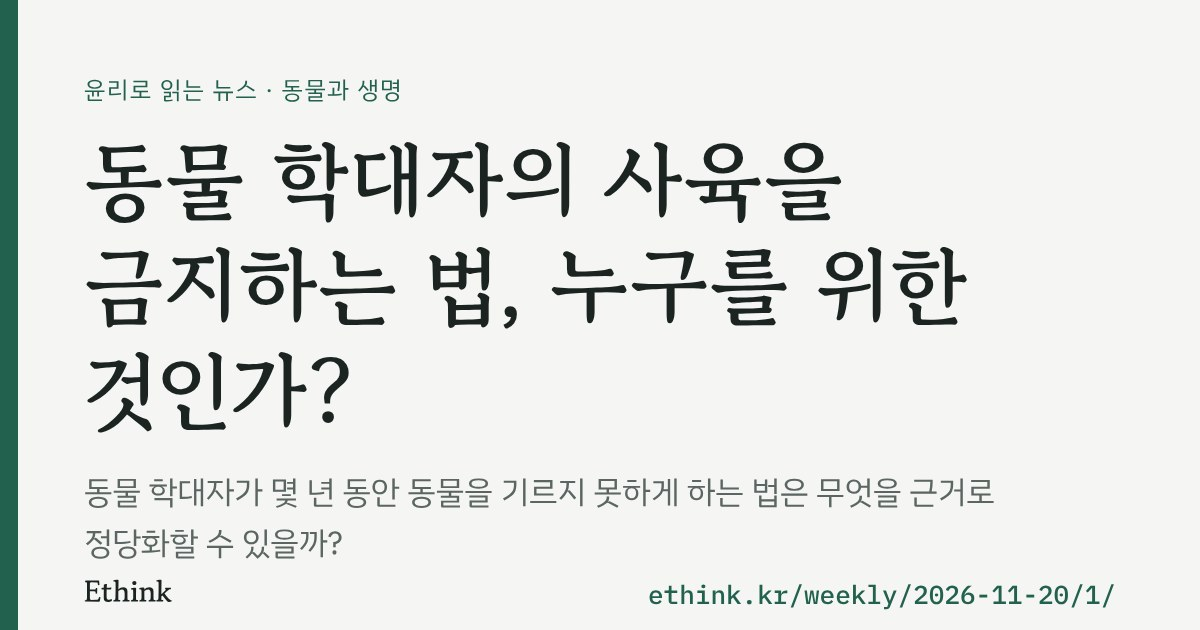
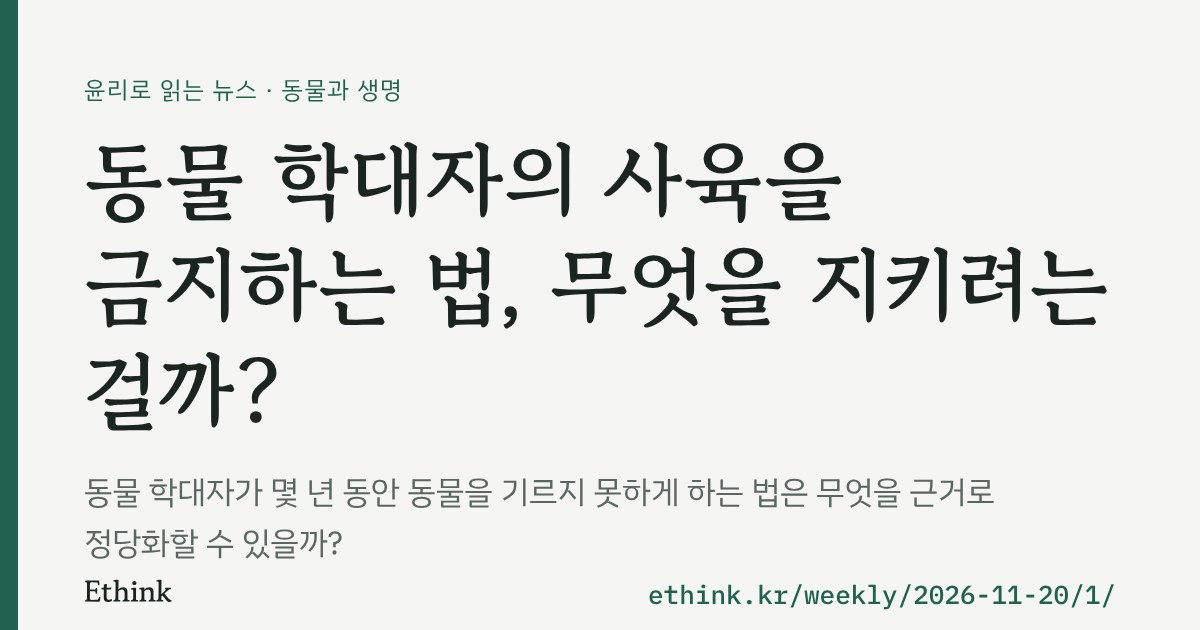
draft 11.20: GPT 2차 검토 반영(제목, 청구·선고·집행 구분, 계속 보호, 과태료 의무 표현, 칸트 반론, 법의 목적, 마무리 질문, 『윤리학 강의록』)
Claude-Session: https://claude.ai/code/session_01KzEbiP1novw54Lmu5VVEdP

Changed region(s): [[0.6783, 0.3921, 0.925, 0.5127], [0.0617, 0.5429, 0.3083, 0.6937], [0.4625, 0.3921, 0.6475, 0.5127]]

diff --git a/_items/2026-11-20/1.md b/_items/2026-11-20/1.md
@@ -3,9 +3,9 @@ date: 2026-11-20 09:00:00 +0900
 num: 1
 section: 동물과 생명
 kicker: 국내 · 10월 27일 공포, 동물보호법 개정(사육금지명령은 2027년 10월 시행)
-title: 동물 학대자의 사육을 금지하는 법, 누구를 위한 것인가?
+title: 동물 학대자의 사육을 금지하는 법, 무엇을 지키려는 걸까?
 question: 동물 학대자가 몇 년 동안 동물을 기르지 못하게 하는 법은 무엇을 근거로 정당화할 수 있을까? 동물의 고통일까, 사람의 도덕성일까, 동물의 권리일까?
-caution: 사육금지명령은 학대로 처벌받는 모든 사람에게 붙지 않습니다. 법이 '동물학대범죄'로 정한 죄로 기소되고 재범 위험이 인정될 때, 검사가 청구하고 법원이 판결로 정합니다. 이 글에서 다루는 조항은 2027년 10월 28일부터 시행되고, 세부 기준을 정할 시행규칙은 아직 나오지 않았습니다. 학대 사진이나 영상은 수업에서 보여 주지 않습니다. 반려동물을 잃었거나 기를 형편이 안 되는 학생도 있으니, 자기 반려동물 이야기를 하게 하지 않습니다. 벤담·칸트·레건의 생각을 이번 법에 대어 보는 것은 글쓴이의 해석입니다. 입법 과정에서 그런 판단을 했다는 뜻은 아닙니다.
+caution: 사육금지명령은 학대로 처벌받는 모든 사람에게 붙지 않습니다. 법이 '동물학대범죄'로 정한 죄로 기소되고 재범 위험이 인정될 때, 검사가 청구하고 법원이 판결로 정합니다. 이 글에서 다루는 조항은 2027년 10월 28일부터 시행되고, 세부 사항은 시행령과 시행규칙에서 정합니다. 학대 사진이나 영상은 수업에서 보여 주지 않습니다. 반려동물을 잃었거나 기를 형편이 안 되는 학생도 있으니, 자기 반려동물 이야기를 하게 하지 않습니다. 벤담·칸트·레건의 생각을 이번 법에 대어 보는 것은 글쓴이의 해석입니다. 입법 과정에서 그런 판단을 했다는 뜻은 아닙니다.
 subjects: [『윤리문제 탐구』 · 생태적 삶과 윤리적 탐구, 『현대사회와 윤리』 · 생명 윤리와 생태 윤리, 『통합사회1』 · 자연환경과 인간]
 lenses: [벤담 · 고통을 느낄 수 있는가, 칸트 · 동물에 대한 간접적 의무]
 sources:
@@ -23,9 +23,9 @@ og_image: /assets/og/2026-11-20-1.jpg
 ---
 ##### 무슨 일이 있었나
 
-동물보호법 개정안이 10월 1일 국회 본회의를 통과했고(229명 전원 찬성), 10월 27일 공포되었습니다. 중심은 '동물사육금지명령'입니다. 법이 '동물학대범죄'로 정한 죄로 기소된 사람 가운데 재범 위험이 인정되면, 검사가 청구하고 법원이 판결로 1년 이상 5년 이하 동안 동물을 기르거나 관리·보호하지 못하게 할 수 있습니다. 명령은 원칙적으로 판결이 확정된 날부터 집행됩니다(같은 범죄로 징역형을 살면 그 형을 마친 뒤부터). 금지 기간에는 보호관찰을 받습니다. 명령을 어기고 다시 동물을 기르면 1년 이하의 징역 또는 1천만 원 이하의 벌금에 처하고, 지방자치단체가 그 동물의 소유권을 가져올 수 있습니다. 이 조항들은 2027년 10월 28일부터 시행됩니다.
+동물보호법 개정안이 10월 1일 국회 본회의를 통과했고(229명 전원 찬성), 10월 27일 공포되었습니다. 중심은 '동물사육금지명령'입니다. 법이 '동물학대범죄'로 정한 죄로 기소된 사람에게 재범 위험이 있다고 보면, 검사는 법원에 사육금지명령을 청구할 수 있습니다. 법원은 학대 사건의 판결을 내리면서 명령을 함께 선고합니다. 명령을 받은 사람은 1년 이상 5년 이하 동안 동물을 기르거나 관리·보호하지 못합니다. 명령은 원칙적으로 판결이 확정된 날부터 집행됩니다(같은 범죄로 징역형을 살면 그 형을 마친 뒤부터). 금지 기간에는 보호관찰을 받습니다. 명령을 어기고 다시 동물을 기르면 1년 이하의 징역 또는 1천만 원 이하의 벌금에 처하고, 지방자치단체가 그 동물의 소유권을 가져올 수 있습니다. 이 조항들은 2027년 10월 28일부터 시행됩니다.
 
-함께 바뀐 것도 있습니다. 지방자치단체가 학대 피해로 보호하고 있는 동물의 소유자가 학대 혐의로 기소되면, 확정판결이 나올 때까지 그 동물을 돌려주지 않고 보호할 수 있습니다. 지방자치단체가 소유권을 가져온 동물을 학대 전력이 있는 사람에게 기증하거나 분양하는 것도 제한됩니다. 반려동물에게 최소한의 사육 공간과 먹이, 적정한 길이의 목줄 같은 사육·관리 의무를 지키지 않으면, 동물이 다치거나 병들지 않았어도 100만 원 이하의 과태료를 물릴 수 있습니다. 사육금지명령은 2022년 전부개정 때도 추진됐습니다. 그런데 재산권 침해, 무죄 추정 원칙에 어긋난다는 우려로 빠졌습니다. 이번에 그 우려를 반영해 보완한 안이 통과했습니다.
+함께 바뀐 것도 있습니다. 지방자치단체가 학대 피해로 보호하고 있는 동물의 소유자가 법에서 정한 학대 혐의로 기소되면, 판결이 확정될 때까지 그 동물을 계속 보호할 수 있습니다. 지방자치단체가 소유권을 가져온 동물을 학대 전력이 있는 사람에게 기증하거나 분양하는 것도 제한됩니다. 반려동물의 사육·관리·보호 의무(최소한의 사육 공간과 먹이, 적정한 길이의 목줄 등)를 어기면, 동물이 다치거나 병들지 않았어도 100만 원 이하의 과태료를 물릴 수 있습니다. 사육금지명령은 2022년 전부개정 때도 추진됐습니다. 그런데 재산권 침해, 무죄 추정 원칙에 어긋난다는 우려로 빠졌습니다. 이번에 그 우려를 반영해 보완한 안이 통과했습니다. 농림축산식품부는 이 제도의 목적을 동물학대 재발을 막고 피해 동물을 보호하는 것으로 설명합니다.
 
 ##### 왜 윤리 문제인가
 
@@ -70,13 +70,13 @@ og_image: /assets/og/2026-11-20-1.jpg
 
 ##### 칸트로 읽기: 동물을 대하는 모습에 사람이 드러난다
 
-칸트(1724~1804)는 독일의 철학자입니다. 칸트는 사람을 수단으로만 대하지 말고 목적으로 대하라고 했습니다. 근거는 이성과 자율성, 즉 스스로 도덕 법칙을 세우고 따르는 능력입니다. 칸트는 동물에게 그 능력이 없다고 보았습니다. 그렇다면 동물은 아무렇게나 대해도 될까? 칸트의 답은 '아니다'입니다. 다만 근거가 벤담과 다릅니다. 칸트는 『윤리학 강의』에서 이렇게 말합니다.
+칸트(1724~1804)는 독일의 철학자입니다. 칸트는 사람을 수단으로만 대하지 말고 목적으로 대하라고 했습니다. 근거는 이성과 자율성, 즉 스스로 도덕 법칙을 세우고 따르는 능력입니다. 칸트는 동물에게 그 능력이 없다고 보았습니다. 그렇다면 동물은 아무렇게나 대해도 될까? 칸트의 답은 '아니다'입니다. 다만 근거가 벤담과 다릅니다. 칸트는 『윤리학 강의록』에서 이렇게 말합니다.
 
 <figure class="src">
 <blockquote>
 <p>우리는 동물과 관련해서 직접적 의무를 지지 않는다. 동물은 자의식적이지 못하므로, 어떤 목적을 위한 수단일 뿐이다. 그 목적이란 인간이다. (…) 동물에 대한 우리의 의무는 인간에 대한 간접적 의무에 불과하다.</p>
 </blockquote>
-<figcaption><span class="who">칸트</span><span class="from">출처: 칸트, 『윤리학 강의』 · 최훈, 『동물을 위한 윤리학』(사월의책)에서 재인용</span></figcaption>
+<figcaption><span class="who">칸트</span><span class="from">출처: 칸트, 『윤리학 강의록』 · 최훈, 『동물을 위한 윤리학』(사월의책)에서 재인용</span></figcaption>
 </figure>
 
 직접적 의무는 그 존재 자체에게 지는 의무입니다. 간접적 의무는 그 존재를 대하는 방식이 사람에 대한 의무와 이어져 있어서 생기는 의무입니다. 칸트는 늙은 개를 예로 듭니다. 오랫동안 주인을 섬긴 개가 늙었다고 총으로 쏘아 버린 사람이 있다고 해 봅시다.
@@ -85,14 +85,14 @@ og_image: /assets/og/2026-11-20-1.jpg
 <blockquote>
 <p>개가 더 이상 봉사를 할 수 없다고 해서 총으로 쏜 사람은 개에 대한 의무를 다하지 못한 것은 아닌데, 개는 판단을 할 수 없기 때문이다. 그러나 그의 행동은 비인간적이며, 인류에게 보여주어야 하는 의무인 자비를 보여주지 못한 것이다. 그가 인간의 감정을 억누를 생각이 아니라면, 동물에 대한 친절함을 실천해야 한다. 동물에게 잔인한 사람은 사람을 대할 때도 가혹하기 때문이다. 우리는 동물을 어떻게 다루는지를 보고 사람의 마음씨를 판단할 수 있다.</p>
 </blockquote>
-<figcaption><span class="who">칸트</span><span class="from">출처: 칸트, 『윤리학 강의』 · 최훈, 『동물을 위한 윤리학』(사월의책)에서 재인용</span></figcaption>
+<figcaption><span class="who">칸트</span><span class="from">출처: 칸트, 『윤리학 강의록』 · 최훈, 『동물을 위한 윤리학』(사월의책)에서 재인용</span></figcaption>
 </figure>
 
 칸트는 개를 해친 행위가 그른 최종 근거를 사람의 도덕성에서 찾습니다. 뒤에 쓴 『윤리형이상학』 「덕론」(§17)에서는 이 생각을 '자기 자신에 대한 의무'로 정리합니다. 동물을 잔혹하게 다루면 동물의 고통에 함께 아파하는 마음이 무뎌지고, 다른 사람과의 관계에서 도덕을 받쳐 주는 자연스러운 성향이 약해진다는 것입니다. 그러니 겉으로 사람에게 친절한 사람이라도, 동물을 학대하면 자기 안의 도덕적 성향을 해칩니다.
 
 이 생각을 이번 법에 대어 보면, 사육금지명령은 사람의 도덕성을 지키는 장치로도 읽힙니다. 학대한 사람이 잔인함에 더 길들지 않게 하는 것입니다. 길벗 『윤리문제 탐구』(144쪽)도 반려동물 학대를 다루며 "반려동물을 함부로 대하는 사람은 동물을 넘어 인간의 생명도 존중하지 않을 경향이 높다"고 적습니다.
 
-그런데 질문이 남습니다. 동물 학대가 그른 까닭을 사람의 도덕성에서만 찾는다면, 동물이 겪는 고통과 피해 자체를 충분히 설명할 수 있을까? 칸트는 동물의 고통을 외면하지 않습니다. 다만 그것을 동물 자체에 대한 직접적 의무의 근거로 삼지는 않습니다. 레건은 바로 이 지점에 이의를 제기합니다. 사람에게만 직접적인 도덕적 의무를 인정하는 관점에 대한 이의입니다. 길벗 『윤리문제 탐구』는 동물의 도덕적 지위를 이렇게 정리합니다.
+그런데 질문이 남습니다. 괴롭힘을 당한 그 동물에게 가한 잘못은 어떻게 설명할 수 있을까? 동물 학대가 그른 까닭을 사람의 도덕성에서만 찾는다면, 동물이 겪는 고통과 피해 자체는 설명에서 비켜 갑니다. 칸트는 동물의 고통을 외면하지 않습니다. 다만 그것을 동물 자체에 대한 직접적 의무의 근거로 삼지는 않습니다. 레건은 바로 이 지점에 이의를 제기합니다. 사람에게만 직접적인 도덕적 의무를 인정하는 관점에 대한 이의입니다. 길벗 『윤리문제 탐구』는 동물의 도덕적 지위를 이렇게 정리합니다.
 
 <figure class="src">
 <blockquote>
@@ -112,7 +112,7 @@ og_image: /assets/og/2026-11-20-1.jpg
 <thead><tr><th>바뀐 법</th><th>벤담으로 보면</th><th>칸트로 보면</th><th>레건으로 보면</th></tr></thead>
 <tbody>
 <tr class="tbl-ex"><td>사육금지명령(1~5년, 재범 위험이 인정될 때)</td><td>예: 다시 학대받을 위험과 고통을 줄인다. 학대한 사람의 불이익과 견준다</td><td>예: 동물을 잔혹하게 다루며 무뎌지는 도덕적 성향을 지킨다</td><td>예: 삶의 주체인 동물을 수단으로 다룬 사람에게서 그 동물을 지킨다</td></tr>
-<tr><td>확정판결 전까지 피해 동물을 돌려주지 않고 보호할 수 있음</td><td></td><td></td><td></td></tr>
+<tr><td>판결 확정 전까지 피해 동물을 계속 보호할 수 있음</td><td></td><td></td><td></td></tr>
 <tr><td>다치지 않았어도 사육·관리 의무 위반에 과태료(사육 공간, 먹이, 목줄 길이)</td><td></td><td></td><td></td></tr>
 </tbody>
 </table>
@@ -135,4 +135,4 @@ og_image: /assets/og/2026-11-20-1.jpg
 
 이 사례로 탐구 보고서를 쓰려는 학생에게는 두 가지 주제를 권합니다. 첫째, 2022년 전부개정 때 사육금지명령이 빠진 이유(재산권, 무죄 추정)와 이번에 보완된 절차(검사의 청구, 법원의 판결, 재범 위험 판단)를 비교하는 주제입니다. 동물 보호와 사람의 기본권이 부딪칠 때 법이 어떻게 균형을 잡는지 정리합니다. 둘째, 벤담·칸트·레건의 관점으로 '동물은 물건이 아니다'라는 민법 개정 논의를 평가하는 주제입니다.
 
-마무리 질문은 학생에게 돌려줍니다. 같은 동물 보호 조치라도 고통의 감소, 사람의 도덕성, 동물의 권리 가운데 무엇을 근거로 삼느냐에 따라 판단이 달라집니다. 나는 어떤 근거가 가장 설득력 있다고 보는가. 그 근거로 설명하기 어려운 사례는 없는가.
+마무리 질문은 학생에게 돌려줍니다. 같은 동물 보호 조치라도 고통의 감소, 사람의 도덕성, 동물의 권리 가운데 무엇을 근거로 삼느냐에 따라 판단이 달라집니다. 나는 어떤 근거가 가장 설득력 있다고 보는가. 그 근거로 설명하기 어려운 사례는 없는가. 그리고 동물의 고통과 사육을 제한받는 사람의 권리를 함께 따진다면, 어떤 경우에 얼마나 오래 사육을 금지해야 할까.
